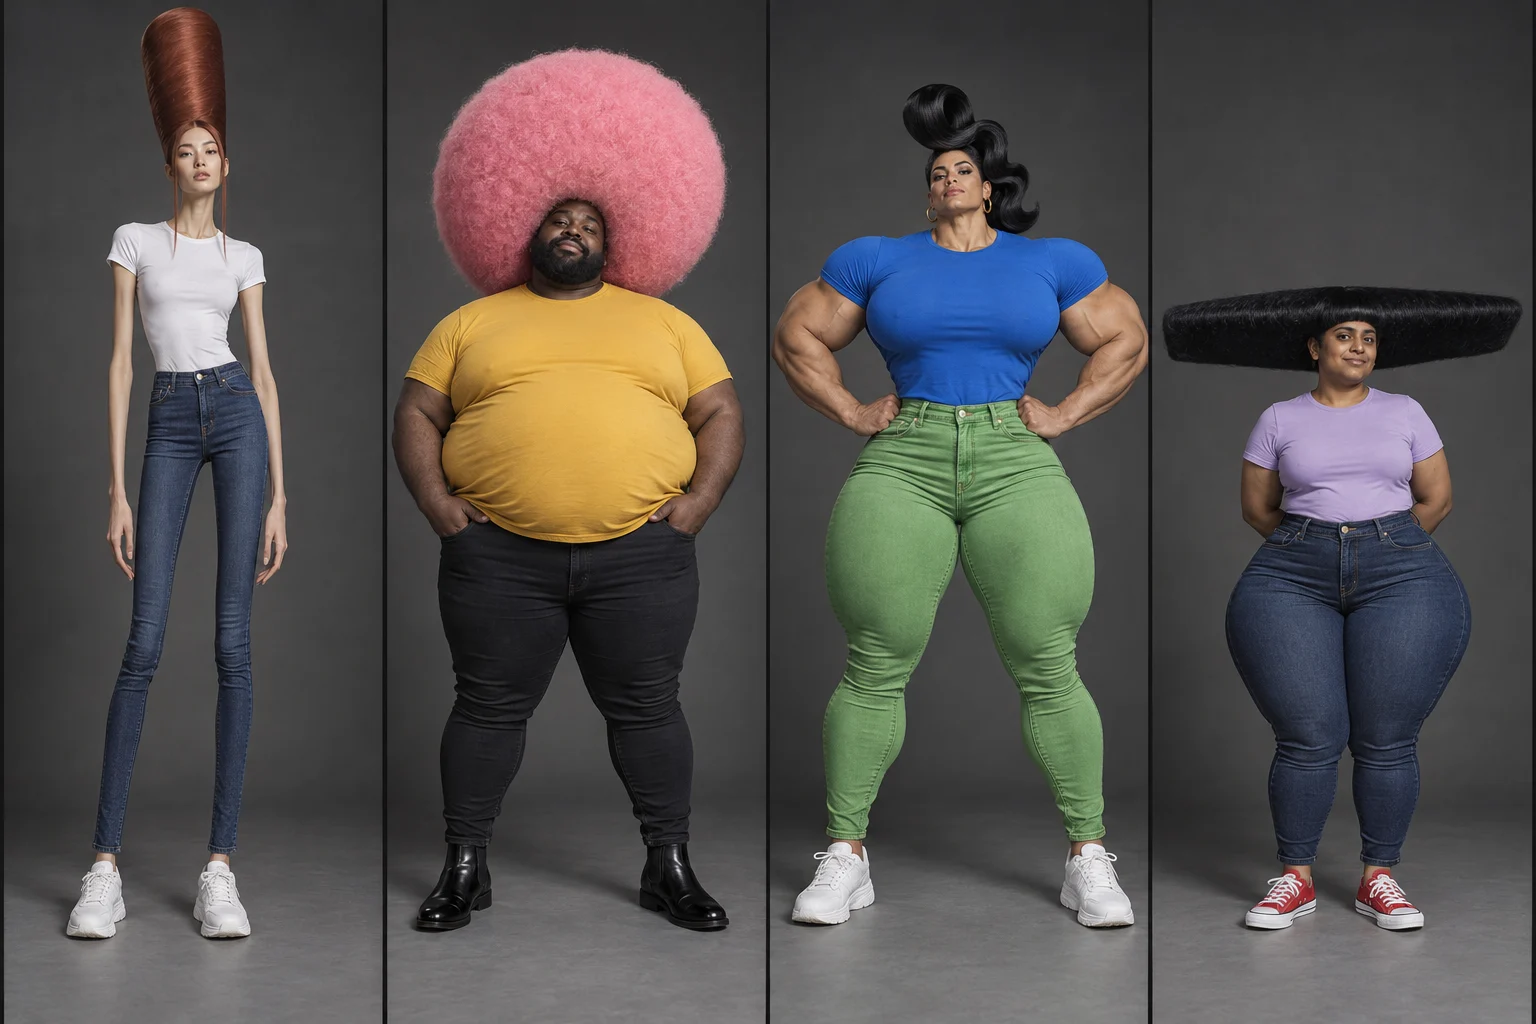
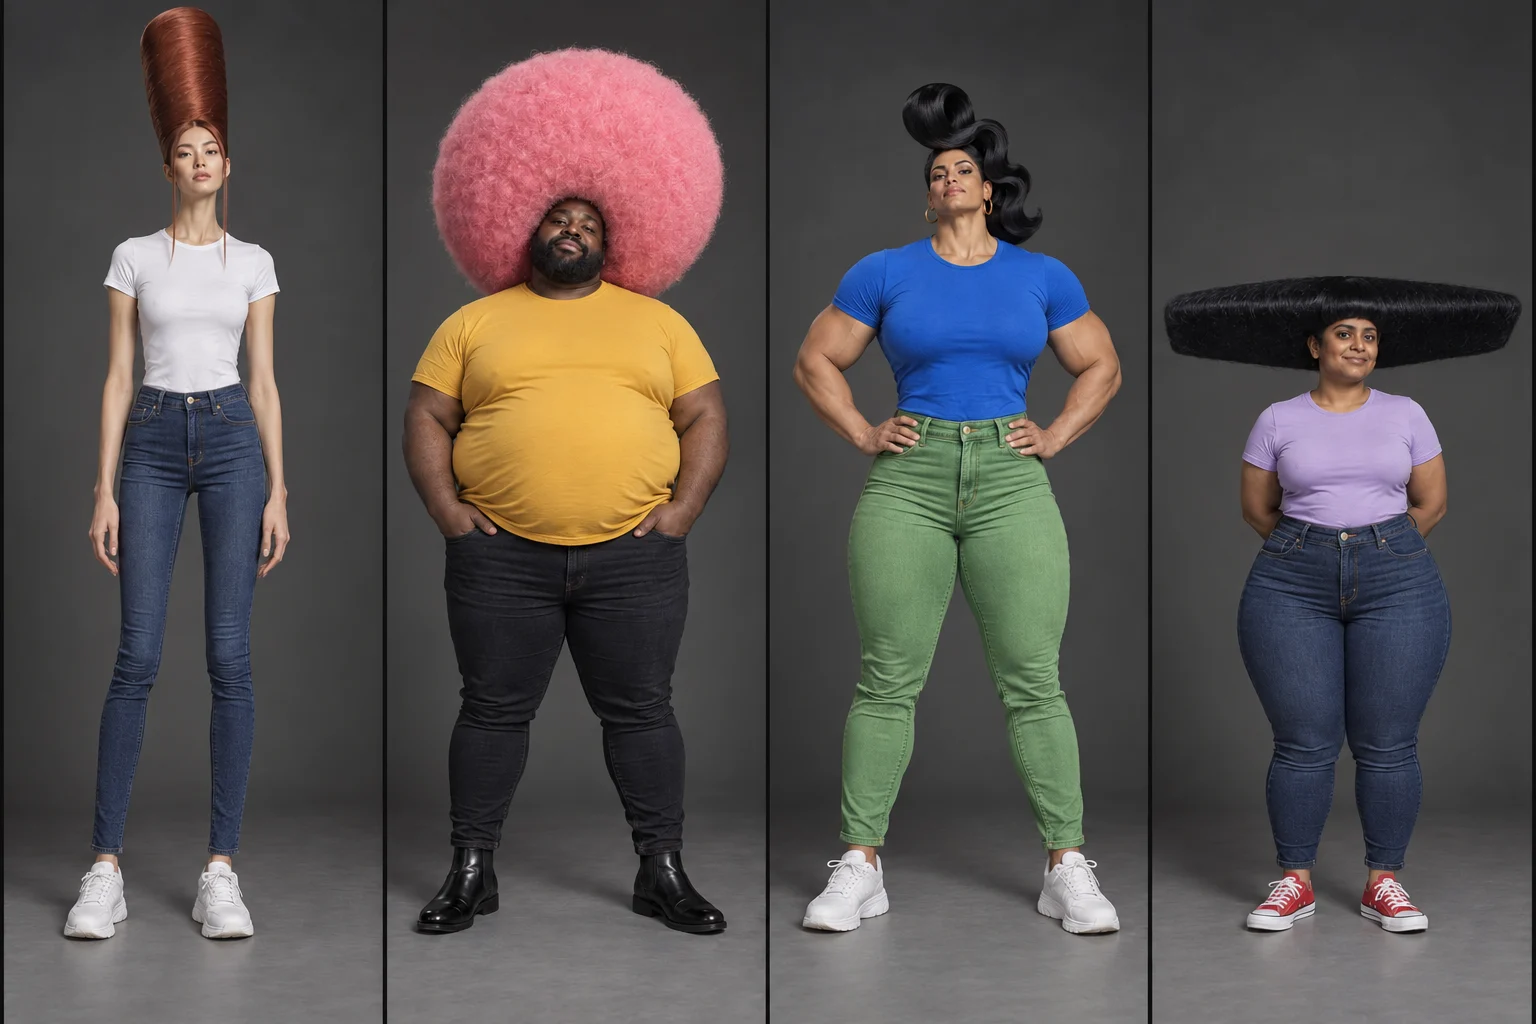
Make modern Oddlings anatomically human

diff --git a/app/veyrnox/_lib/character.js b/app/veyrnox/_lib/character.js
@@ -191,7 +191,7 @@ export const ODDLING_ARCHETYPES = [
     name: 'Tall Order',
     hook: 'A long-limbed basics critic testing whether ordinary clothes can keep up.',
     accent: 'EXTRA LONG EDITION',
-    picks: { character_type: 'Human', gender: 'Female', ethnicity_origin_base: 'Asian', age: '20s', skin_tone: 'Golden', body_type: 'Very Skinny', height: 'Very Tall', proportions: 'Tiny Torso', hair: 'Tube Tower', hair_color: 'Copper', wardrobe_style: 'Modern Basics', rendering_style: 'Hyper-Realistic', oddling_name: 'Tall Order', oddling_obsession: 'plain white T-shirts, impossible inseams, and door frames that interrupt the outfit', oddling_voice: 'Dry oracle', oddling_show: 'Five-second verdicts', oddling_rule: 'extremely tall very skinny body with very long limbs, towering copper tube hair, fitted white T-shirt, indigo skinny jeans, white sneakers' },
+    picks: { character_type: 'Human', gender: 'Female', ethnicity_origin_base: 'Asian', age: '20s', skin_tone: 'Golden', body_type: 'Very Skinny', height: 'Tall', proportions: 'Natural', hair: 'Tube Tower', hair_color: 'Copper', wardrobe_style: 'Modern Basics', rendering_style: 'Hyper-Realistic', oddling_name: 'Tall Order', oddling_obsession: 'plain white T-shirts, impossible inseams, and door frames that interrupt the outfit', oddling_voice: 'Dry oracle', oddling_show: 'Five-second verdicts', oddling_rule: 'tall very skinny adult with natural human proportions, copper tube hair, fitted white T-shirt, indigo skinny jeans, white sneakers' },
   },
   {
     id: 'bubble-barry',

diff --git a/lib/generatedProductInventory.js b/lib/generatedProductInventory.js
@@ -1,5 +1,5 @@
 // Generated by scripts/sync-vey-knowledge.mjs. Do not edit by hand.
-export const GENERATED_KNOWLEDGE_VERSION = "5a0c5aac04800dd32af8";
+export const GENERATED_KNOWLEDGE_VERSION = "fa101dba664a73988942";
 
 export const AUTO_PRODUCT_INVENTORY = Object.freeze([
   {
@@ -855,7 +855,7 @@ export const AUTO_PRODUCT_INVENTORY = Object.freeze([
       "/app/oddlings"
     ],
     "source": "app/veyrnox/app/create/page.js",
-    "sourceHash": "11213160ef541f9e"
+    "sourceHash": "4ae13005ad73b654"
   },
   {
     "id": "route:/app/credits",
@@ -1273,7 +1273,7 @@ export const AUTO_PRODUCT_INVENTORY = Object.freeze([
       "/app/library"
     ],
     "source": "app/veyrnox/app/oddlings/page.js",
-    "sourceHash": "be6567305d8a7893"
+    "sourceHash": "45406b431c4b20ea"
   },
   {
     "id": "route:/app",
